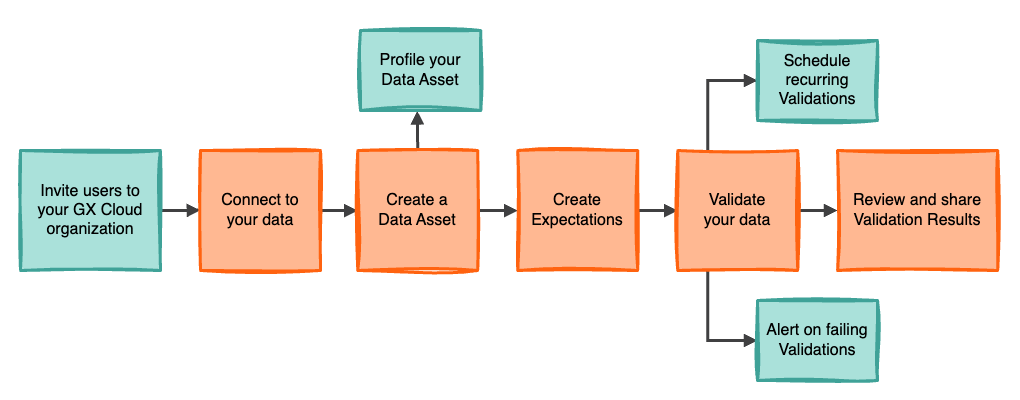
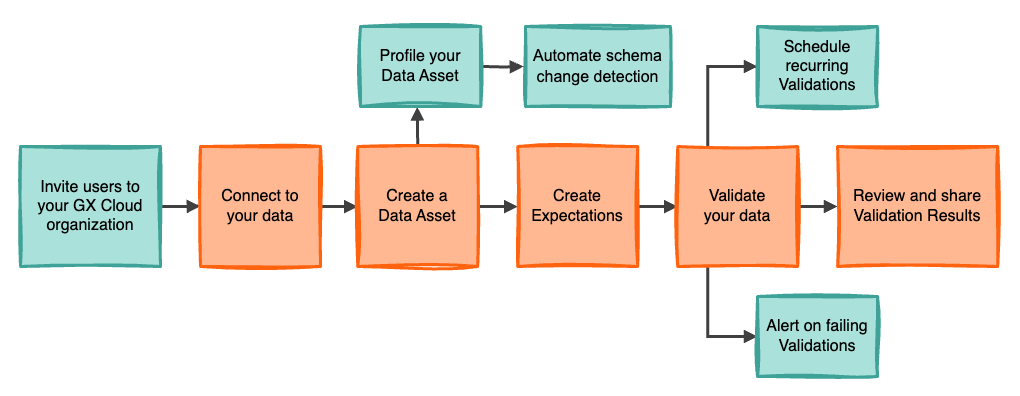
[DOCS] Schema change detection  (#10755)

diff --git a/docs/docusaurus/docs/cloud/expectations/manage_expectations.md b/docs/docusaurus/docs/cloud/expectations/manage_expectations.md
@@ -134,6 +134,10 @@ To clear the Expectation condition, click the clear button located on the right-
 
 7. Optional. Run a Validation. See [Run a Validation](/cloud/validations/manage_validations.md#run-a-validation).
 
+:::tip Automate rules for schema change detection
+When you [create a new Data Asset](/cloud/data_assets/manage_data_assets.md#add-a-data-asset-from-an-existing-data-source), you can choose to automatically generate Expectations that detect column changes in that Data Asset.
+:::
+
 
 ## Optional. Define a Batch
 
@@ -143,13 +147,11 @@ If your Data Asset has at least one DATE or DATETIME column, you can define a Ba
 
 2. In the **Data Assets** list, click the Data Asset name.
 
-3. Click the **Expectations** tab.
+3. Click **Define batch**.
 
-4. Click **Define batch**.
+4. Choose how to **Validate by**. Select the **Entire Asset** tab to provide all Data Asset records to your Expectations and validations, or select one of the **Year**/**Month**/**Day** tabs to use subsets of Data Asset records for your Expectations and validations. **Year** partitions Data Asset records by year, **Month** partitions Data Asset records by year and month, **Day** partitions Data Asset records by year, month, and day.
 
-5. Choose how to **Validate by**. Select the **Entire Asset** tab to provide all Data Asset records to your Expectations and validations, or select one of the **Year**/**Month**/**Day** tabs to use subsets of Data Asset records for your Expectations and validations. **Year** partitions Data Asset records by year, **Month** partitions Data Asset records by year and month, **Day** partitions Data Asset records by year, month, and day.
-
-6. Select the **Batch column** that contains the DATE or DATETIME data to partition on.
+5. Select the **Batch column** that contains the DATE or DATETIME data to partition on.
 
 ## Edit an Expectation
 
@@ -157,13 +159,11 @@ If your Data Asset has at least one DATE or DATETIME column, you can define a Ba
 
 2. In the **Data Assets** list, click the Data Asset name.
 
-3. Click the **Expectations** tab.
+3. Click **Edit Expectation** for the Expectation that you want to edit.
 
-4. Click **Edit Expectation** for the Expectation that you want to edit.
+4. Edit the Expectation configuration.
 
-5. Edit the Expectation configuration.
-
-6. Click **Save**.
+5. Click **Save**.
 
 ## Delete an Expectation
 
@@ -171,11 +171,9 @@ If your Data Asset has at least one DATE or DATETIME column, you can define a Ba
 
 2. In the **Data Assets** list, click the Data Asset name.
 
-3. Click the **Expectations** tab.
+3. Click **Delete Expectation** for the Expectation you want to delete.
 
-4. Click **Delete Expectation** for the Expectation you want to delete.
-
-5. Click **Yes, delete Expectation**.
+4. Click **Yes, delete Expectation**.
 
 ## GX-managed vs. API-managed Expectations
 
@@ -196,8 +194,6 @@ Here is a comparison of key characteristics of GX-managed and API-managed Expect
 | Schedule           | Keep default schedule or [edit schedule](/cloud/schedules/manage_schedules.md) in the Cloud UI                                                                                                      | Not supported, use an [orchestrator](/cloud/connect/connect_airflow.md) to control recurring validations                                                                                                                                                                                                                    |
 | Expectation Suite  | Automatically organized in a hidden default Expectation Suite                                                                                                                                       | Manually grouped into [custom Expectation Suites](/core/define_expectations/organize_expectation_suites.md) via the API                                                                                                                                                                                                     |
 | Delete             | [Delete Expectation](/docs/cloud/expectations/manage_expectations/#delete-an-expectation) with the Cloud UI                                                                                         | [Delete Expectation with the API](/reference/api/ExpectationSuite_class.mdx#great_expectations.ExpectationSuite.delete_expectation) or the Cloud UI                                                                                                                                                                         |
-
-
 
 :::note Hidden resources for GX-managed Expectations
 To support GX-managed Expectations, we create resources that you typically won't directly interact with. For example, we create a GX-managed Expectation Suite that we use to organize your Expectations. For some workflows you may need to work with these hidden resources, for example, you may need to [find the name of an automatically created Checkpoint](/cloud/connect/connect_airflow.md#create-a-dag-file-for-your-gx-cloud-checkpoint). But, typically you can ignore the existence of these hidden resources. 

diff --git a/docs/docusaurus/docs/reference/learn/data_quality_use_cases/schema.md b/docs/docusaurus/docs/reference/learn/data_quality_use_cases/schema.md
@@ -17,11 +17,7 @@ established rules, such as verifying column names, data types, and the presence 
 Schema changes, whether planned or unexpected, can significantly impact data integrity and the
 performance of data-dependent systems.
 
-Great Expectations (GX) provides schema-focused Expectations that allow you
-to define and enforce the structural integrity of your datasets. These tools enable you to establish
-robust schema validation within your data pipelines, helping to catch and address schema-related
-issues before they propagate through your data ecosystem. This guide will walk you through
-leveraging these Expectations to implement effective schema validation in your data workflows.
+Great Expectations (GX) provides schema-focused Expectations that allow you to define and enforce the structural integrity of your datasets. You can automatically generate some of these Expectations when you add a new Data Asset in GX Cloud. These tools enable you to establish robust schema validation within your data pipelines, helping to catch and address schema-related issues before they propagate through your data ecosystem. This guide will walk you through leveraging these Expectations to implement effective schema validation in your data workflows.
 
 ## Prerequisite knowledge
 This article assumes basic familiarity with GX components and workflows. See the [GX Overview](/core/introduction/gx_overview.md) for additional content on GX fundamentals.
@@ -41,7 +37,7 @@ You can [access this dataset](https://raw.githubusercontent.com/great-expectatio
 
 ## Key schema Expectations
 
-GX offers a collection of Expectations for schema validation, all of which can be added directly from the GX Cloud UI or using the GX Core Python library.
+GX offers a collection of Expectations for schema validation, all of which can be added directly from the GX Cloud UI or using the GX Core Python library. Some of them can be automatically generated when you add a new Data Asset using GX Cloud. 
 
 The schema Expectations provide basic practical solutions for common validation scenarios and can also be used to satisfy more nuanced validation needs.
 
@@ -142,6 +138,10 @@ flexibility where column presence is more critical than their sequence.
 ```python title="Python" name="docs/docusaurus/docs/reference/learn/data_quality_use_cases/schema_resources/schema_expectations.py ExpectTableColumnsToMatchSet"
 ```
 
+:::tip Automate this rule
+When you [create a new Data Asset](/cloud/data_assets/manage_data_assets.md#add-a-data-asset-from-an-existing-data-source), you can choose to automatically generate this Expectation to test that columns don't diverge from the initial set over time.
+:::
+
 <small>View `ExpectTableColumnsToMatchSet` in the [Expectation
 Gallery](https://greatexpectations.io/expectations/expect_table_columns_to_match_set).</small>
 
@@ -173,7 +173,7 @@ Gallery](https://greatexpectations.io/expectations/expect_table_column_count_to_
 
 ## Examples
 
-**GX Cloud** provides a visual interface to create and run schema validation workflows. The GX Cloud workflow for validating data schema is to create a Data Asset, define Expectations, run a Validation, and review Validation Results.
+**GX Cloud** provides a visual interface to create and run schema validation workflows. The GX Cloud workflow for validating data schemas is to create Data Assets with automatically generated Expectations, manually define additional Expectations, run Validations, and review Validation Results.
 
 **GX Core** can be used to complement and extend the capabilities of GX Cloud to programmatically implement custom validation workflows. The examples provided in this section feature use cases that leverage GX Core to achieve schema validation.
 

diff --git a/docs/docusaurus/docs/cloud/validations/manage_validations.md b/docs/docusaurus/docs/cloud/validations/manage_validations.md
@@ -22,17 +22,15 @@ To run a validation for an [API-managed Expectation](/cloud/expectations/manage_
 
 2. Click a Data Asset in the **Data Assets** list.
 
-3. Click the **Expectations** tab.
+3. Click **Validate**.
 
-4. Click **Validate**.
+4. When the confirmation message appears, click **See results**, or click the **Validations** tab and select the Validation in the **Batches & run history** pane.
 
-5. When the confirmation message appears, click **See results**, or click the **Validations** tab and select the Validation in the **Batches & run history** pane.
-
-6. Optional. Click **Share** to copy the URL for the Validation Results and share them with other users in your organization.
+5. Optional. Click **Share** to copy the URL for the Validation Results and share them with other users in your organization.
 
 ## Run a Validation on a subset of a Data Asset
 
-If you've [defined a Batch](/cloud/expectations/manage_expectations.md#optional-define-a-batch), you can run a Validation on the latest Batch of data, or you can select a specific year, year and month, or year, month, and day period for the Validation. If a Batch is defined, Batch information appears on the Data Asset **Overview** page and on the **Validations** page in the **Batches & run history** pane.
+If you've [defined a Batch](/cloud/expectations/manage_expectations.md#optional-define-a-batch), you can run a Validation on the latest Batch of data, or you can select a specific year, year and month, or year, month, and day period for the Validation. If a Batch is defined, Batch information appears on the Data Asset **Metrics** page and on the **Validations** page in the **Batches & run history** pane.
 
 To run a Validation for a specific Batch, do the following:
 
@@ -40,21 +38,19 @@ To run a Validation for a specific Batch, do the following:
 
 2. Click a Data Asset in the **Data Assets** list.
 
-3. Click the **Expectations** tab.
+3. Click **Validate**.
 
-4. Click **Validate**.
-
-5. Select one of the following options:
+4. Select one of the following options:
 
     - **Latest** - Run the Validation on the latest Batch of data.
 
     - **Custom** - Select the **year**, **month**, or **day** to run the Validation on a Batch of data for a specific period.
 
-6. Click **Validate**.
+5. Click **Run**.
 
-7. When the confirmation message appears, click **See results**, or click the **Validations** tab and select the Validation in the **Batches & run history** pane.
+6. When the confirmation message appears, click **See results**, or click the **Validations** tab and select the Validation in the **Batches & run history** pane.
 
-8. Optional. Click **Share** to copy the URL for the Validation Results and share them with other users in your organization.
+7. Optional. Click **Share** to copy the URL for the Validation Results and share them with other users in your organization.
 
 ## View Validation run history
 

diff --git a/docs/docusaurus/docs/cloud/schedules/manage_schedules.md b/docs/docusaurus/docs/cloud/schedules/manage_schedules.md
@@ -4,7 +4,7 @@ title: 'Manage schedules'
 description: Create and manage schedules for Validations in GX Cloud.
 ---
 
-Use a schedule to automate data quality checks with GX-managed Expectations. When you add your first Expectation in the GX Cloud UI for a Data Asset, we enable a default schedule for that Asset's GX-managed Expectations. By default, GX-managed Expectations are scheduled to run every 24 hours. The first run will be at the start of the next hour after you add your first Expectation in the Cloud UI. You can keep the default schedule, edit it, or disable it.
+Use a schedule to automate data quality checks with GX-managed Expectations. When you add your first Expectation in the GX Cloud UI for a Data Asset, including when you choose to auto-generate Expectations to detect schema changes, we enable a default schedule for that Asset's GX-managed Expectations. By default, GX-managed Expectations are scheduled to run every 24 hours. The first run will be at the start of the next hour after you add your first Expectation in the Cloud UI. You can keep the default schedule, edit it, or disable it.
 
 :::note Schedules are for GX-managed Expectations only
 To automate data quality checks for [API-managed Expectations](/cloud/expectations/manage_expectations.md#gx-managed-vs-api-managed-expectations), use an [orchestrator](/cloud/connect/connect_airflow.md).
@@ -17,13 +17,11 @@ To automate data quality checks for [API-managed Expectations](/cloud/expectatio
 
 2. In the **Data Assets** list, click the Data Asset name.
 
-3. Click the **Expectations** tab.
+3. In the Scheduling component, click the **Edit Schedule** icon.
 
-4. In the Scheduling component, click the **Edit Schedule** icon.
+4. Change the **Frequency** and/or the **Start time** for the first run of the new schedule.
 
-5. Change the **Frequency** and/or the **Start time** for the first run of the new schedule.
-
-6. Click **Save**.
+5. Click **Save**.
 
 ## Disable a schedule
 
@@ -31,6 +29,4 @@ To automate data quality checks for [API-managed Expectations](/cloud/expectatio
 
 2. In the **Data Assets** list, click the Data Asset name.
 
-3. Click the **Expectations** tab.
-
-4. Pause the schedule using the toggle in the Scheduling component.
+3. Pause the schedule using the toggle in the Scheduling component.

diff --git a/docs/docusaurus/docs/cloud/overview/gx_cloud_overview.md b/docs/docusaurus/docs/cloud/overview/gx_cloud_overview.md
@@ -46,10 +46,11 @@ There are a variety of GX Cloud features that support additional enhancements to
 
 * **Data Asset profiling.** GX Cloud introspects your data schema by default on Data Asset creation, and also offers one-click fetching of additional descriptive metrics including column type and statistical summaries. Data profiling results are used to suggest parameters for Expectations that you create.
 
+* **Automate schema change detection.** GX Cloud can automatically generate Expectations that detect column changes. This option is available when [you create new Data Assets](/cloud/data_assets/manage_data_assets.md#add-a-data-asset-from-an-existing-data-source).
+
 * **Schedule Validations.** GX Cloud enables you to schedule validations, so that you can test and assess your data on a regular cadence and monitor data quality over time. See [Manage schedules](/cloud/schedules/manage_schedules.md) for more detail.
 
 * **Alerting.** GX Cloud provides the ability to send alerts when validations fail, enabling your organization to remain proactively aware of the health of your Data Assets. See [Manage alerts](/cloud/alerts/manage_alerts.md) for more detail.
-
 
 
 

diff --git a/docs/docusaurus/docs/reference/learn/integrations/dbt_tutorial.md b/docs/docusaurus/docs/reference/learn/integrations/dbt_tutorial.md
@@ -414,5 +414,5 @@ Refresh the Data Docs page to see new results from the DAG run:
 ## Conclusion
 You have learned to build a pipeline using PostgreSQL, dbt, GX and Airflow. This tutorial covers a basic implementation for scheduling and running a data pipeline with open source tools. You can explore other possibilities with GX by connecting to your own Data Sources or exploring the other use cases in this section. See the [Expectations Gallery](https://greatexpectations.io/expectations/) to learn about all the Expectations you can run on your data.
 
-If you are ready to take next steps and collaborate with your team using GX, check out [GX Cloud](https://greatexpectations.io/cloud), where you can use our online platform to run GX in a no-code environment and share results.
+If you are ready to take next steps and collaborate with your team using GX, check out [GX Cloud](https://greatexpectations.io/cloud), where you can use our online platform to run GX in a no-code environment, automate rules, schedule validations, and share results.
 

diff --git a/docs/docusaurus/docs/cloud/data_assets/manage_data_assets.md b/docs/docusaurus/docs/cloud/data_assets/manage_data_assets.md
@@ -28,19 +28,19 @@ Define the data you want GX Cloud to access.
 
 3. Select one or more tables to import as Data Assets.
 
-4. Click **Add x Asset(s)**.
+4. Decide if you want to **Generate Expectations that detect column changes in selected Data Assets**. 
+
+5. Click **Add x Asset(s)**.
 
 Then you can [add an Expectation](/cloud/expectations/manage_expectations.md#add-an-expectation) for your new Data Asset.
 
 ## View Data Asset metrics
 
-Data Asset metrics provide you with insight into the data you can use for your data validations. 
+Data Asset metrics provide you with insight into the data you can use for your data validations. When you create a new Data Asset, schema data is automatically fetched.
 
 1. In GX Cloud, click **Data Assets** and then select a Data Asset in the **Data Assets** list.
 
-2. Click the **Overview** tab.
-
-    When you select a new Data Asset, schema data is automatically fetched.
+2. Click the **Metrics** tab.
 
 3. Optional. Select one of the following options:
 

diff --git a/docs/docusaurus/docs/cloud/alerts/manage_alerts.md b/docs/docusaurus/docs/cloud/alerts/manage_alerts.md
@@ -20,7 +20,7 @@ Every time a Data Asset fails a validation run, GX Cloud sends an email to all u
 
 1. In GX Cloud, click **Data Assets**.
 2. Click a Data Asset in the **Data Assets** list.
-3. Click the **Expectations** tab and then **Alerts**.
+3. Click **Alerts**.
 4. Click the **toggle switch** to enable or disable email alerts for the Data Asset.
 
 If you disabled an alert, you will stop receiving emails for the Data Asset immediately. If you enabled an alert, you will begin receiving the emails as soon as the Data Asset’s next full validation run is complete.

diff --git a/docs/docusaurus/docs/cloud/connect/connect_snowflake.md b/docs/docusaurus/docs/cloud/connect/connect_snowflake.md
@@ -107,8 +107,10 @@ Then, you can use GX Cloud to [add a Data Asset](/cloud/data_assets/manage_data_
 
 6. Select one or more tables to import as Data Assets.
 
-7. Click **Add x Asset(s)**. 
+7. Decide if you want to **Generate Expectations that detect column changes in selected Data Assets**.
 
-8. Add an Expectation. See [Add an Expectation](/cloud/expectations/manage_expectations.md#add-an-expectation).
+8. Click **Add x Asset(s)**. 
+
+9. Add an Expectation. See [Add an Expectation](/cloud/expectations/manage_expectations.md#add-an-expectation).
 
 

diff --git a/docs/docusaurus/docs/cloud/connect/connect_postgresql.md b/docs/docusaurus/docs/cloud/connect/connect_postgresql.md
@@ -58,7 +58,9 @@ import Tabs from '@theme/Tabs';
 
 5. Select one or more tables to import as Data Assets.
 
-6. Click **Add x Asset(s)**. 
+6. Decide if you want to **Generate Expectations that detect column changes in selected Data Assets**.
 
-7. Add an Expectation. See [Add an Expectation](/cloud/expectations/manage_expectations.md#add-an-expectation).
+7. Click **Add x Asset(s)**. 
+
+8. Add an Expectation. See [Add an Expectation](/cloud/expectations/manage_expectations.md#add-an-expectation).
 

diff --git a/docs/docusaurus/docs/cloud/connect/connect_databrickssql.md b/docs/docusaurus/docs/cloud/connect/connect_databrickssql.md
@@ -33,6 +33,8 @@ import Tabs from '@theme/Tabs';
 
 5. Select one or more tables to import as Data Assets.
 
-6. Click **Add x Asset(s)**. 
+6. Decide if you want to **Generate Expectations that detect column changes in selected Data Assets**.
 
-7. Add an Expectation. See [Add an Expectation](/cloud/expectations/manage_expectations.md#add-an-expectation).
+7. Click **Add x Asset(s)**. 
+
+8. Add an Expectation. See [Add an Expectation](/cloud/expectations/manage_expectations.md#add-an-expectation).
